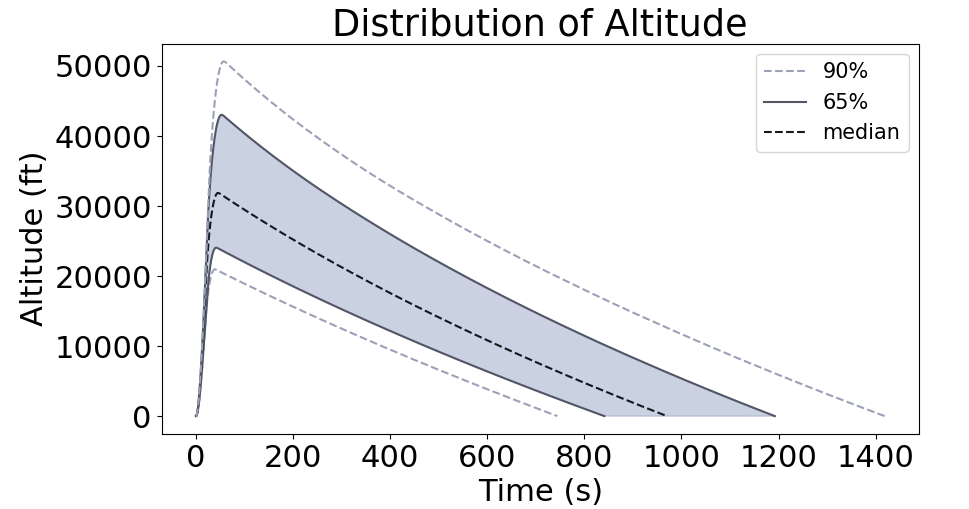
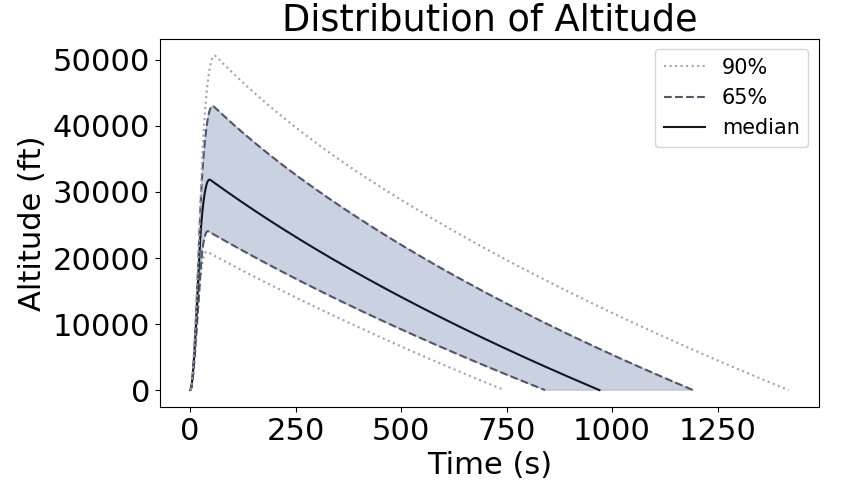
Re-graphed

diff --git a/Analysis/GraphPercentiles.py b/Analysis/GraphPercentiles.py
@@ -41,11 +41,12 @@ if __name__ == "__main__":
     ]
 
     outlier_kwargs = {
-        "linestyle": "dashed",
+        "linestyle": "dotted",
         "color": "#9ca1b6"
     }
     confident_kwargs = {
-        "color": "#525666"
+        "color": "#525666",
+        "linestyle": "dashed",
     }
     percentile_kwargs = [
         {
@@ -54,11 +55,10 @@ if __name__ == "__main__":
         },
         {
             **confident_kwargs,
-            "label": "65%"
+            "label": "65%",
         },
         {
             "color": "#11191f",
-            "linestyle": "dashed",
             "label": "median"
         },
         confident_kwargs,
@@ -95,8 +95,8 @@ if __name__ == "__main__":
     from Helpers.visualization import make_matplotlib_big
     make_matplotlib_big()
 
-    plot_distribution("altitude", title="Distribution of Altitude", axis_label="Altitude (ft)")
-    plot_distribution("velocity", title="Distribution of Velocity", axis_label="Velocity (ft/s)")
+    # plot_distribution("altitude", title="Distribution of Altitude", axis_label="Altitude (ft)")
+    # plot_distribution("velocity", title="Distribution of Velocity", axis_label="Velocity (ft/s)")
     plot_distribution("drag", title="Distribution of Drag", axis_label="Drag (lbs)")
     plot_distribution("thrust", title="Simulated Thrust Curves", axis_label="Thrust (lbs)")    
     

diff --git a/Analysis/MonteCarloFlightData/AnalyzeMonteCarloFlight.py b/Analysis/MonteCarloFlightData/AnalyzeMonteCarloFlight.py
@@ -31,6 +31,15 @@ def display_apogee_distribution(df):
 
     plt.show()
 
+def display_drift_distribution(df):
+    plt.scatter(df["Landing Distance"], df["Apogee"])
+
+    plt.title("Apogee Distribution")
+    plt.xlabel("Drift (m)")
+    plt.ylabel("Apogee (m)")
+
+    plt.show()
+
 def display_total_impulse_effect(df):
     plt.scatter(df["Total Impulse"], df["Apogee"])
 
@@ -67,9 +76,9 @@ def display_altitude_lines(sims):
 
 
 if __name__ == "__main__":
-    df = pd.read_csv("./Analysis/SAIC3-Temporary/MonteCarloFlightData/output2.csv")
+    df = pd.read_csv("./Analysis/SAIC4-Temporary/MonteCarloFlightData/output.csv")
 
-    best_motor_analysis(df)
+    display_drift_distribution(df)
 
     # sims = read_sims("./Analysis/SAIC3-Temporary/MonteCarloFlightSimulations")
     # display_altitude_lines(sims)
